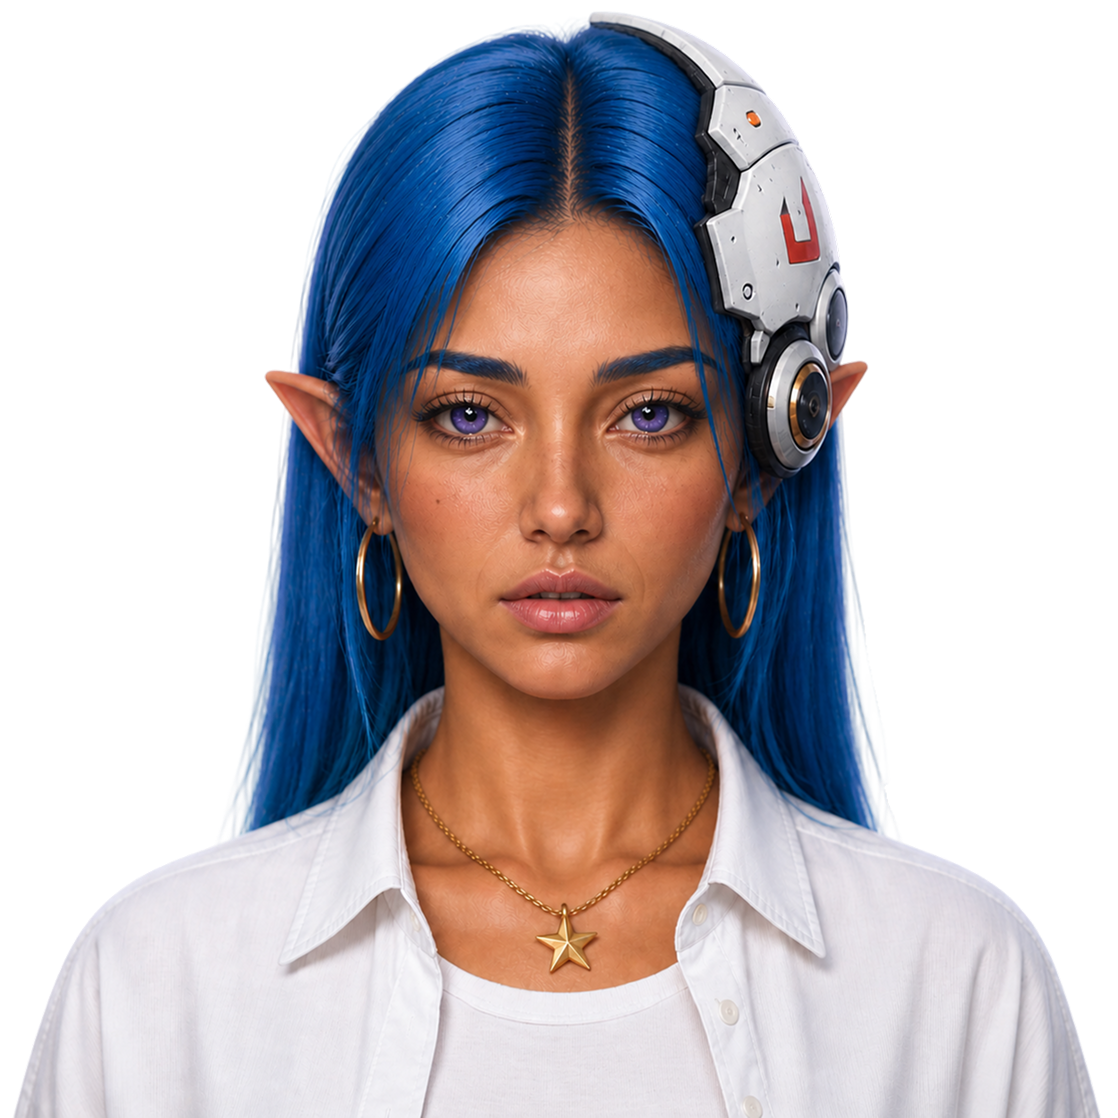
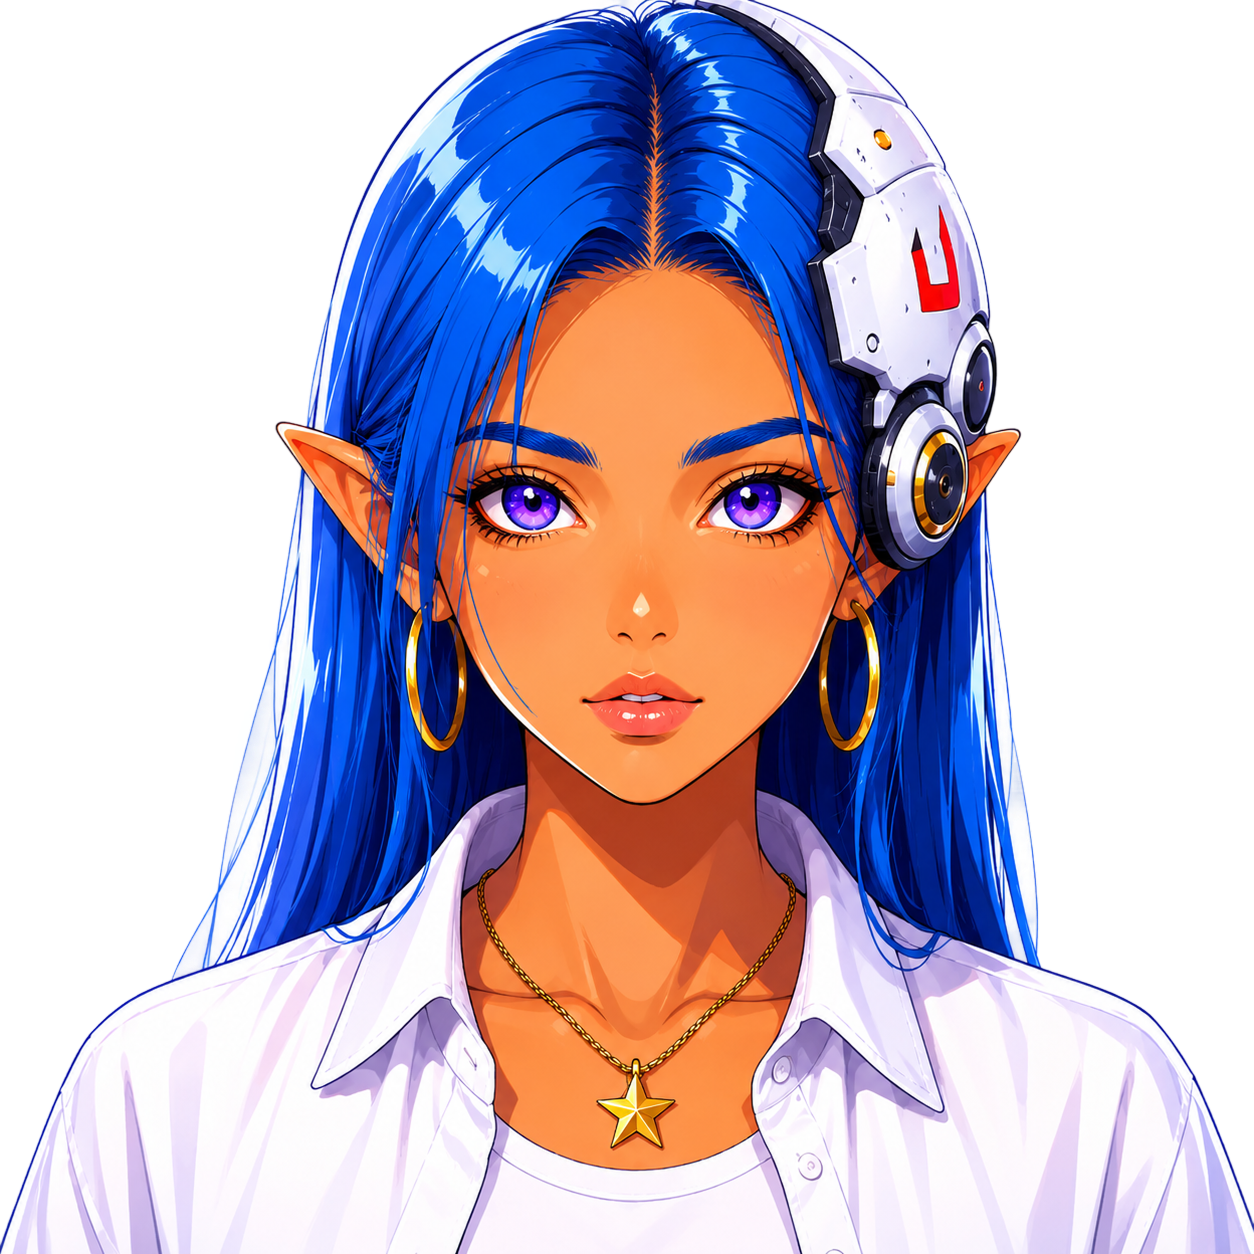
Flip landing page to light theme with vivid ASCII cubes
Switch the 3D canvas, navbar, and hero copy to the futuristic-floss
off-white palette. Mask the cube body to the background color so only
the ASCII pattern shows brand-colored highlights, and brighten the
palette to vivid brand hues. Lighten value cards/banner, swap nav and
hero text to dark, restyle the How It Works CTA as a centered pill,
and update the hero image asset.

diff --git a/components/landing/LandingPage.module.css b/components/landing/LandingPage.module.css
@@ -80,7 +80,7 @@
 .heroTextBadge {
   display: block;
   margin: 0 0 22px 0;
-  color: rgba(255, 255, 255, 0.76);
+  color: rgba(11, 12, 18, 0.72);
   font-family: var(--font-primary);
   font-size: clamp(0.68rem, 0.95vw, 0.84rem);
   font-weight: 600;
@@ -98,9 +98,9 @@
   line-height: 0.96;
   margin: 0 0 16px 0;
   letter-spacing: -0.035em;
-  color: var(--color-primary, #5168FF);
+  color: #11131B;
   text-transform: uppercase;
-  text-shadow: 0 2px 20px rgba(0, 0, 0, 0.18);
+  text-shadow: none;
   animation: heroFadeUp 0.45s var(--hero-ease-out) both;
   text-wrap: balance;
 }
@@ -132,7 +132,7 @@
 }
 
 .heroHeadline > span:first-child {
-  color: #f2f0ff;
+  color: var(--color-primary, #5168FF);
 }
 
 .heroSubheadline {
@@ -154,7 +154,7 @@
   font-weight: 400;
   line-height: 1.46;
   margin: 0 0 14px 0;
-  color: rgba(255, 255, 255, 0.85);
+  color: rgba(11, 12, 18, 0.82);
   max-width: 44rem;
   animation: heroFadeUp 0.45s var(--hero-ease-out) 0.25s both;
 }
@@ -165,7 +165,7 @@
   font-weight: 400;
   line-height: 1.5;
   margin: 0 0 30px 0;
-  color: #b8becd;
+  color: rgba(11, 12, 18, 0.62);
   max-width: 38rem;
   animation: heroFadeUp 0.45s var(--hero-ease-out) 0.32s both;
   text-wrap: balance;
@@ -337,10 +337,10 @@
   font-weight: 800;
   line-height: 1.05;
   letter-spacing: 0;
-  color: #f3f6ff;
+  color: var(--color-primary, #5168FF);
   text-transform: uppercase;
   margin: 0 0 14px 0;
-  text-shadow: 0 2px 18px rgba(0, 0, 0, 0.16);
+  text-shadow: none;
 }
 
 .ecosystemSubtext {
@@ -348,7 +348,7 @@
   font-size: 1rem;
   font-weight: 400;
   line-height: 1.6;
-  color: rgba(255, 255, 255, 0.85);
+  color: rgba(11, 12, 18, 0.78);
   max-width: 720px;
   margin: 0 0 40px 0;
 }
@@ -358,15 +358,14 @@
   margin-top: 40px;
   padding: 18px 22px;
   border-radius: 10px;
-  background:
-    linear-gradient(135deg, rgba(81, 104, 255, 0.18), rgba(81, 104, 255, 0.08)),
-    rgba(17, 20, 31, 0.92);
-  box-shadow: 0 10px 28px rgba(7, 12, 32, 0.32);
+  background: #ffffff;
+  border: 1px solid rgba(81, 104, 255, 0.3);
+  box-shadow: 0 10px 28px rgba(17, 19, 27, 0.08);
 }
 
 .ecosystemBannerHeadline {
   margin: 0 0 6px;
-  color: #f3f6ff;
+  color: #11131B;
   font-family: var(--font-primary);
   font-size: clamp(0.95rem, 1.4vw, 1.08rem);
   font-weight: 700;
@@ -375,7 +374,7 @@
 
 .ecosystemBannerSubtext {
   margin: 0;
-  color: rgba(255, 255, 255, 0.76);
+  color: rgba(11, 12, 18, 0.7);
   font-family: var(--font-primary);
   font-size: clamp(0.88rem, 1.15vw, 0.98rem);
   line-height: 1.5;
@@ -391,12 +390,12 @@
   overflow: hidden;
   aspect-ratio: 3.2 / 1;
   padding: clamp(10px, 3.4cqw, 20px) clamp(14px, 4cqw, 24px);
-  border: 1px solid var(--color-primary, #5168FF);
+  border: 1px solid rgba(81, 104, 255, 0.3);
   border-radius: 18px;
-  background: #15171f;
-  box-shadow: 0 18px 32px rgba(0, 0, 0, 0.28);
+  background: #ffffff;
+  box-shadow: 0 18px 32px rgba(17, 19, 27, 0.08);
   text-align: left;
-  color: var(--color-text-light);
+  color: #11131B;
 }
 
 .heroValueIconBox {
@@ -433,7 +432,7 @@
   font-weight: 500;
   line-height: 1.05;
   letter-spacing: -0.01em;
-  color: #f7f8ff;
+  color: #11131B;
   white-space: nowrap;
   overflow: hidden;
   text-overflow: ellipsis;
@@ -445,7 +444,7 @@
   font-size: clamp(0.42rem, 5cqw, 0.78rem);
   font-weight: 500;
   line-height: 1.3;
-  color: rgba(232, 236, 255, 0.7);
+  color: rgba(11, 12, 18, 0.65);
   overflow: hidden;
   text-overflow: ellipsis;
   display: -webkit-box;
@@ -2143,7 +2142,7 @@
   font-size: 0.9rem;
   text-transform: uppercase;
   letter-spacing: 0.02rem;
-  color: var(--color-text-light);
+  color: #11131B;
   margin: 0 0 16px 0;
   border-radius: 4px;
 }

diff --git a/components/landing/FeaturesSection.module.css b/components/landing/FeaturesSection.module.css
@@ -3,7 +3,7 @@
   overflow: hidden;
   width: 100%;
   padding: 88px 24px 112px;
-  background-color: rgba(0, 0, 0, 0.8);
+  background-color: #000000;
   z-index: 1;
 }
 
@@ -135,11 +135,12 @@
 
 .title {
   margin: 0;
-  font-family: var(--font-secondary);
+  font-family: var(--font-poppins), 'Poppins', sans-serif;
   font-size: clamp(1.8rem, 2.8vw, 2.7rem);
   line-height: 1.06;
   letter-spacing: -0.03em;
   color: #f7f1d5;
+  text-align: center;
 }
 
 .description {
@@ -148,6 +149,7 @@
   font-size: 16px;
   line-height: 1.65;
   color: rgba(245, 247, 255, 0.78);
+  text-align: center;
 }
 
 .ctaButton {
@@ -155,25 +157,27 @@
   align-items: center;
   justify-content: center;
   width: fit-content;
-  height: 42px;
-  padding: 0 22px;
-  border: 1px solid rgba(113, 132, 255, 0.65);
-  border-radius: 0;
-  background: linear-gradient(180deg, #5168ff 0%, #2a2dd6 100%);
-  color: #f8f8ff;
-  font-family: var(--font-ibm-plex-mono);
-  font-size: 11px;
-  font-weight: 700;
-  letter-spacing: 0.08em;
+  height: 44px;
+  padding: 0 28px;
+  border: 1px solid var(--color-primary, #5168FF);
+  border-radius: 999px;
+  background: var(--color-primary, #5168FF);
+  color: #ffffff;
+  font-family: var(--font-primary);
+  font-size: 0.85rem;
+  font-weight: 600;
+  letter-spacing: 0.06em;
   text-decoration: none;
   text-transform: uppercase;
-  transition: background 0.2s ease, box-shadow 0.2s ease;
-  margin-top: 8px;
+  transition: background 0.2s ease, box-shadow 0.2s ease, transform 0.2s ease;
+  margin: 12px auto 0;
+  align-self: center;
 }
 
 .ctaButton:hover {
-  background: linear-gradient(180deg, #6278ff 0%, #3d40e8 100%);
-  box-shadow: 0 0 20px rgba(81, 104, 255, 0.35);
+  background: #3d4fe6;
+  box-shadow: 0 6px 20px rgba(81, 104, 255, 0.35);
+  transform: translateY(-1px);
 }
 
 /* Card grid — 3 columns, sharp borders */

diff --git a/components/landing/LandingHeader.module.css b/components/landing/LandingHeader.module.css
@@ -6,7 +6,7 @@
   width: min(1280px, var(--landing-shell-width, calc(100% - 144px)));
   z-index: 100;
   padding: 10px var(--landing-shell-padding, 24px);
-  background: rgba(5, 8, 22, 0.78);
+  background: rgba(251, 248, 255, 0.78);
   backdrop-filter: blur(16px);
   -webkit-backdrop-filter: blur(16px);
   border-radius: 20px;
@@ -49,7 +49,7 @@
 .headerScrolled {
   width: min(950px, var(--landing-shell-width, calc(100% - 144px)));
   padding: 8px clamp(20px, var(--landing-shell-padding, 24px), 24px);
-  background: rgba(5, 8, 22, 0.9);
+  background: rgba(251, 248, 255, 0.9);
   backdrop-filter: blur(16px);
   -webkit-backdrop-filter: blur(16px);
   border-radius: 100px;
@@ -78,7 +78,7 @@
   width: 110px;
   height: auto;
   object-fit: contain;
-  filter: brightness(0) invert(1);
+  filter: brightness(0);
   transition: width 0.4s cubic-bezier(0.4, 0, 0.2, 1);
 }
 
@@ -95,7 +95,7 @@
 }
 
 .sectionNavLink {
-  color: rgba(255, 255, 255, 0.72);
+  color: rgba(11, 12, 18, 0.72);
   font-family: var(--font-primary);
   font-size: 0.72rem;
   font-weight: 500;
@@ -107,7 +107,7 @@
 }
 
 .sectionNavLink:hover {
-  color: #ffffff;
+  color: #000000;
 }
 
 .nav {
@@ -132,10 +132,10 @@
   justify-content: center;
   flex-direction: column;
   gap: 5px;
-  border: 1px solid rgba(255, 255, 255, 0.22);
+  border: 1px solid rgba(11, 12, 18, 0.22);
   border-radius: 14px;
-  background: rgba(255, 255, 255, 0.04);
-  color: #ffffff;
+  background: rgba(11, 12, 18, 0.04);
+  color: #11131B;
   cursor: pointer;
 }
 
@@ -159,11 +159,11 @@
   display: inline-flex;
   align-items: center;
   justify-content: center;
-  background: rgba(88, 101, 242, 0.16);
-  border: 1px solid rgba(128, 141, 255, 0.44);
+  background: #5865F2;
+  border: 1px solid #5865F2;
   padding: 0.68rem 1.1rem 0.58rem;
   border-radius: 100px;
-  color: #eef1ff;
+  color: #ffffff;
   font-size: 0.8rem;
   font-weight: var(--font-weight-medium);
   font-family: var(--font-button);
@@ -180,8 +180,8 @@
 }
 
 .discordButton:hover {
-  background: rgba(88, 101, 242, 0.28);
-  border-color: rgba(171, 181, 255, 0.72);
+  background: #4752C4;
+  border-color: #4752C4;
   color: #ffffff;
 }
 
@@ -190,10 +190,10 @@
   align-items: center;
   justify-content: center;
   background: transparent;
-  border: 1px solid rgba(255, 255, 255, 0.38);
+  border: 1px solid rgba(11, 12, 18, 0.38);
   padding: 0.68rem 1.4rem 0.58rem;
   border-radius: 100px;
-  color: var(--color-text-light);
+  color: #11131B;
   font-size: 0.875rem;
   font-weight: var(--font-weight-medium);
   font-family: var(--font-button);
@@ -210,9 +210,9 @@
 }
 
 .loginButton:hover {
-  background: rgba(255, 255, 255, 0.12);
-  border-color: rgba(255, 255, 255, 0.7);
-  color: #ffffff;
+  background: rgba(11, 12, 18, 0.06);
+  border-color: rgba(11, 12, 18, 0.7);
+  color: #000000;
 }
 
 .joinButton {

diff --git a/components/landing/CohortCubes.tsx b/components/landing/CohortCubes.tsx
@@ -48,12 +48,12 @@ const RotatingCube = memo(({ position, rotationSpeed, scale, verticalSpeed, hori
     time: { value: 0.0 },
     rotationSpeed: { value: new THREE.Vector3(...rotationSpeed) },
     horizontalOnly: { value: horizontalOnly ? 1.0 : 0.0 },
-    ucolor1: { value: new THREE.Vector3(0.10, 0.13, 0.32) },
-    ucolor2: { value: new THREE.Vector3(0.30, 0.16, 0.03) },
-    ucolor3: { value: new THREE.Vector3(0.22, 0.21, 0.32) },
-    ucolor4: { value: new THREE.Vector3(0.0, 0.0, 0.0) },
-    ucolor5: { value: new THREE.Vector3(0.13, 0.13, 0.14) },
-    ucolor6: { value: new THREE.Vector3(0.09, 0.21, 0.09) },
+    ucolor1: { value: new THREE.Vector3(0.32, 0.41, 1.00) },
+    ucolor2: { value: new THREE.Vector3(1.00, 0.47, 0.16) },
+    ucolor3: { value: new THREE.Vector3(0.59, 0.14, 0.65) },
+    ucolor4: { value: new THREE.Vector3(1.00, 0.84, 0.42) },
+    ucolor5: { value: new THREE.Vector3(0.91, 0.33, 0.43) },
+    ucolor6: { value: new THREE.Vector3(0.45, 0.77, 0.40) },
     asciicode: { value: 100.0 },
     utexture: { value: null as THREE.Texture | null },
     uAsciiImageTexture: { value: new THREE.Texture() },
@@ -162,7 +162,7 @@ type CohortCubesProps = {
   bgColor?: string;
 };
 
-const CohortCubes = memo(({ bgColor = '#f4f5fe' }: CohortCubesProps) => {
+const CohortCubes = memo(({ bgColor = '#FBF8FF' }: CohortCubesProps) => {
   const dpr = typeof window !== 'undefined' ? Math.min(window.devicePixelRatio || 1, 2) : 1;
   const bgVec = new THREE.Color(bgColor);
   const bgVector3 = new THREE.Vector3(bgVec.r, bgVec.g, bgVec.b);

diff --git a/components/landing/FounderSection.module.css b/components/landing/FounderSection.module.css
@@ -3,7 +3,7 @@
   width: 100%;
   margin: 0 auto;
   padding: 80px clamp(20px, 4vw, 40px) 64px;
-  background-color: rgba(0, 0, 0, 0.8);
+  background-color: #000000;
   z-index: 1;
 }
 

diff --git a/components/landing/HeroSection.tsx b/components/landing/HeroSection.tsx
@@ -49,7 +49,7 @@ export const HeroSection: React.FC = () => {
                 />
               </span>
             </span>
-            <span>For Your Evolution</span>
+            <span>To Your Evolution</span>
           </h1>
           <p className={styles.heroSubtext}>
             A modular 4-week Micro-University. Access Viral Oportunities, Transformative Bluesky Research. Reshape the future of humanity.

diff --git a/components/landing/LandingScene.tsx b/components/landing/LandingScene.tsx
@@ -8,7 +8,7 @@ const CubesCanvas = dynamic(() => import('./CohortCubes'), { ssr: false });
 export const LandingScene: React.FC = () => {
   return (
     <div className={styles.canvas}>
-      <CubesCanvas bgColor="#000000" />
+      <CubesCanvas bgColor="#FBF8FF" />
     </div>
   );
 };